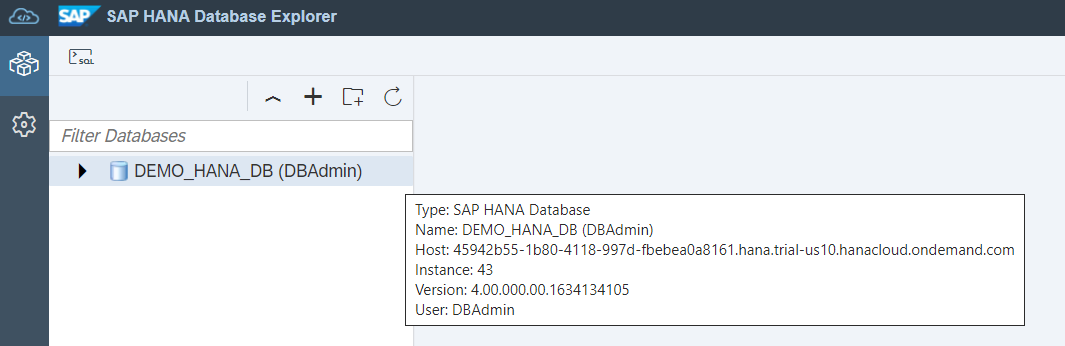
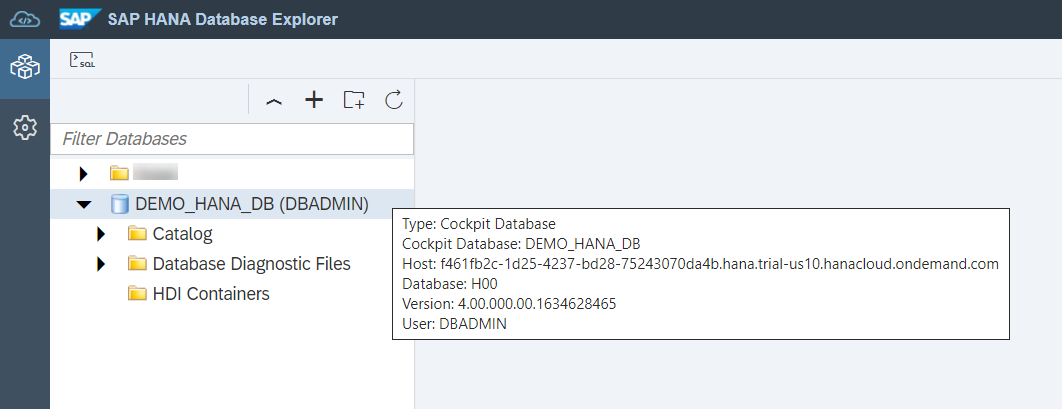
updated database explorer exercises

diff --git a/exercises/database_explorer/ex2/README.md b/exercises/database_explorer/ex2/README.md
@@ -3,20 +3,26 @@ In this exercise, we will use SAP HANA Database Explorer's SQL Console.
 
 For the rest of this workshop, we will be creating and working with a sample schema titled **Hotel**. This will represent a basic hotel administration system.
 
-1. First, we will create a new database connection with a different user. To do this, right-click over your existing database connection listed on the left panel. Select the "Add Database with Different User" option. Define the User as *hotelUser1* and the Password as *Password1*. 
+1. First, lets add new users we will use in the proceeding steps by running the following commands in SQL Console.
+   
+   ```SQL
+   CREATE USER USER1 PASSWORD Password1 no force_first_password_change;
+   CREATE USER USER2 PASSWORD Password2 no force_first_password_change;
+   ```
 
+2. We will create a new database connection with a different user. To do this, right-click over your existing database connection listed on the left panel. Select the "Add Database with Different User" option. Use the credentials User1 and Password1. 
 
-    Organize your database connections by creating database groups. Select the folder icon at the top of your databases panel, and name your new group *System Admins*, create a second new group named *Hotel*. Click and drag the DBAdmin connection into the System Admins group, and the hotelUser1 connection to the Hotel group.
+    Organize your database connections by creating database groups. Select the folder icon at the top of your databases panel, and name your new group *System Admins*, create a second new group named *Hotel*. Click and drag the DBAdmin connection into the System Admins group, and the User1 connection to the Hotel group.
 
       ![](images/NewDBUser.png)
 
-2. Next, right-click on your desired database and select **Open SQL Console**. 
+3. Next, right-click on your desired database connection and select **Open SQL Console**. An instance of SQL Console is associated with the selected database connection only.
 
     ![](images/SqlConsole.png)
 
     We can open SQL console in full-screen by double tapping on the tab name. We can rename a tab by right-clicking and selecting **Rename**.
 
-3. We will be creating a new schema by running the SQL command below. Type this into the SQL Console and click the green arrow at the top of your screen.
+4. We will be creating a new schema by running the SQL command below. Type this into the SQL Console and click the green arrow at the top of your screen.
 
     ```SQL
     CREATE SCHEMA HOTEL;
@@ -26,70 +32,75 @@ For the rest of this workshop, we will be creating and working with a sample sch
 
    ![](images/CreateSchema.png)
 
-    Create a second hotel user and assign a role with privileges to this user. Run the following commands in SQL console.
+    Create a role with privileges and assign to your user. Run the following commands in SQL console.
 
     ```SQL
     CREATE ROLE HOTEL_ADMIN;
+    CREATE ROLE HOTEL_READER;
+
     GRANT ALL PRIVILEGES ON SCHEMA HOTEL TO HOTEL_ADMIN;
-    GRANT HOTEL_ADMIN TO hotelUser1;
+    GRANT SELECT ON SCHEMA HOTEL TO HOTEL_READER;
+
+    GRANT HOTEL_ADMIN TO USER1;
+    GRANT HOTEL_READER TO USER2;
     ```
     Beside the Messages tab, is another tab labelled **History**, click this tab to view previously run queries from SQL console.
 
     ![](images/ViewHistory.png)
 
 
-4. Populate your hotel schema with some tables. Run the following code to create a series of tables for your hotel schema.
+5.  Populate your Hotel schema with some tables. Run the following code to create a series of tables for your Hotel schema.
 
     ```SQL
     CREATE COLUMN TABLE HOTEL.HOTEL(
-    hno INTEGER PRIMARY KEY,
-    name VARCHAR(50) NOT NULL,
-    address VARCHAR(40) NOT NULL,
-    city VARCHAR(30) NOT NULL,
-    state VARCHAR(2) NOT NULL,
-    zip VARCHAR(6),
-    location ST_Point(4326)
+        hno INTEGER PRIMARY KEY,
+        name VARCHAR(50) NOT NULL,
+        address VARCHAR(40) NOT NULL,
+        city VARCHAR(30) NOT NULL,
+        state VARCHAR(2) NOT NULL,
+        zip VARCHAR(6),
+        location ST_Point(4326)
     );
     CREATE COLUMN TABLE HOTEL.ROOM(
-    hno INTEGER,
-    type VARCHAR(6),
-    free NUMERIC(3),
-    price NUMERIC(6, 2),
-    PRIMARY KEY (hno, type),
-    FOREIGN KEY (hno) REFERENCES HOTEL.HOTEL
+        hno INTEGER,
+        type VARCHAR(6),
+        free NUMERIC(3),
+        price NUMERIC(6, 2),
+        PRIMARY KEY (hno, type),
+        FOREIGN KEY (hno) REFERENCES HOTEL.HOTEL
     );
     CREATE COLUMN TABLE HOTEL.CUSTOMER(
-    cno INTEGER PRIMARY KEY,
-    title VARCHAR(7),
-    firstname VARCHAR(20),
-    name VARCHAR(40) NOT NULL,
-    address VARCHAR(40) NOT NULL,
-    zip VARCHAR(6)
+        cno INTEGER PRIMARY KEY,
+        title VARCHAR(7),
+        firstname VARCHAR(20),
+        name VARCHAR(40) NOT NULL,
+        address VARCHAR(40) NOT NULL,
+        zip VARCHAR(6)
     );
     CREATE COLUMN TABLE HOTEL.RESERVATION(
-    resno INTEGER NOT NULL GENERATED BY DEFAULT AS IDENTITY,
-    rno INTEGER NOT NULL,
-    cno INTEGER,
-    hno INTEGER,
-    type VARCHAR(6),
-    arrival DATE NOT NULL,
-    departure DATE NOT NULL,
-    PRIMARY KEY (
-        "RESNO", "ARRIVAL"
-    ),
-    FOREIGN KEY(hno) REFERENCES HOTEL.HOTEL,
-    FOREIGN KEY(cno) REFERENCES HOTEL.CUSTOMER
+        resno INTEGER NOT NULL GENERATED BY DEFAULT AS IDENTITY,
+        rno INTEGER NOT NULL,
+        cno INTEGER,
+        hno INTEGER,
+        type VARCHAR(6),
+        arrival DATE NOT NULL,
+        departure DATE NOT NULL,
+        PRIMARY KEY (
+            "RESNO", "ARRIVAL"
+     ),
+        FOREIGN KEY(hno) REFERENCES HOTEL.HOTEL,
+        FOREIGN KEY(cno) REFERENCES HOTEL.CUSTOMER
     );
     CREATE COLUMN TABLE HOTEL.MAINTENANCE(
-    mno INTEGER PRIMARY KEY,
-    hno INTEGER,
-    description VARCHAR(100),
-    date_performed DATE,
-    performed_by VARCHAR(40)
+        mno INTEGER PRIMARY KEY,
+        hno INTEGER,
+        description VARCHAR(100),
+        date_performed DATE,
+        performed_by VARCHAR(40)
     );
     ```
 
-5. Add data into your tables by running the following SQL statements. If we anticipate this block of commands taking some time, we can choose to run it as a background activity while completing other tasks. To do this, click the small arrow beside the green arrow that runs commands. From the dropdown that appears, select **Run as a Background Activity**. 
+6.  Add data into your tables by running the following SQL statements. If we anticipate this block of commands taking some time, we can choose to run it as a background activity while completing other tasks. To do this, click the small arrow beside the green arrow that runs commands. From the dropdown that appears, select **Run as a Background Activity**. 
 
     ```SQL
     INSERT INTO HOTEL.HOTEL VALUES(10, 'Congress', '155 Beechwood St.', 'Seattle', 'WA', '98121', NEW ST_POINT('POINT(-122.347340 47.610546)', 4326));
@@ -185,7 +196,7 @@ For the rest of this workshop, we will be creating and working with a sample sch
     
     Similar to running a script as a background activity, the **Run on Multiple Databases** is an option available to run a single command on multiple databases.
 
-6. A list of keyboard shortcuts can be found by right-clicking within a SQL console window with some existing text within it. Keyboard shortcuts must be enabled by clicking the Settings icon on the left of the Database Explorer screen and navigating to Keyboard Shortcuts. Ensure Shortcuts to Use is set to Default, and click Save.
+7.  A list of keyboard shortcuts can be found by right-clicking within a SQL console window with some existing text within it. Keyboard shortcuts must be enabled by clicking the Settings icon on the left of the Database Explorer screen and navigating to Keyboard Shortcuts. Ensure Shortcuts to Use is set to Default, and click Save.
 
    ![](images/KeyboardShortcuts.png)
    
@@ -199,8 +210,11 @@ For the rest of this workshop, we will be creating and working with a sample sch
     ));
     ```
 
-   
-7. To understand your data better, let's view an analysis of the Reservations table. Using the navigator on the left, select Catalog, then Tables, and search for the Reservations table. 
+8.  Code completion is a tool available within SQL console. To use this feature type ``SE`` and then use Ctrl+Space on your keyboard to view a list of options. You can also type  ``SELECT * FROM HOTEL.RE`` and use Ctrl+Space on your keyboard to view a list of recommended tables.
+
+    ![](images/CodeCompletion.png)
+
+9.  To understand your data better, let's view an analysis of the Reservations table. Using the navigator on the left, select Catalog, then Tables, and search for the Reservations table. 
 
     ![](images/OpenData.png)
 
@@ -210,15 +224,14 @@ For the rest of this workshop, we will be creating and working with a sample sch
 
     ![](images/Analysis.png)
 
-8. Code completion is a tool available within SQL console. To use this feature type ``SE`` and then use Ctrl+Space on your keyboard to view a list of options. You can also type  ``SELECT * FROM HOTEL.RE`` and use Ctrl+Space on your keyboard to view a list of recommended tables.
 
-    ![](images/CodeCompletion.png)
 
-9.  A user can drag and drop database objects from the menu on the left to complete SQL queries. From the database menu, select Catalog, then Tables. Search "Hotel" in the Schema field below. Type ``SELECT * FROM`` and click and drag the HOTEL.CUSTOMER table from the menu.
+12. A user can drag and drop database objects from the menu on the left to complete SQL queries. From the database menu, select Catalog, then Tables. Search "Hotel" in the Schema field below. Type ``SELECT * FROM`` and click and drag the HOTEL.CUSTOMER table from the menu.
 
     ![](images/Drag_Drop.png)
 
-10. Find and Replace is available within SQL console. The keyboard shortcut for this tool is Ctrl+Alt+K. Highlight the text you wish to update and use the shortcut to update all instances of this text.
+13. Find and Replace is available within SQL console. The keyboard shortcut for this tool is Ctrl+Alt+K. Highlight the text you wish to update and use the shortcut to update all instances of this text.
 
+This concludes the exercise on the using SQL Console.
 
 Continue to - [Exercise 3 - Catalog Browser and Object Search](../ex3/README.md)

diff --git a/exercises/database_explorer/ex1/README.md b/exercises/database_explorer/ex1/README.md
@@ -1,33 +1,42 @@
 # Exercise 1 - Launch Database Explorer
 
-In this excercise, we will launch an instance of SAP HANA Database Explorer and walk through some of its core features.
+In this exercise, we will launch an instance of SAP HANA Database Explorer and walk through some of its core features.
 
 1. From the SAP BTP Cockpit, you can choose to open the SAP HANA Database Explorer by clicking the Actions dropdown on your instance, and selecting **Open in Database Explorer**.
 
-      ![](images/btpcockpit.png)
+    ![](images/BTPCockpit.png)
 
     Note: Trial instances are shut down overnight. Instances can be restarted by clicking the **Manage SAP HANA Cloud** button, and selecting **Start** on the dropdown menu for your instance.
 
-
     You may be prompted to enter database login credentials at this point. Enter the DBADMIN user credentials which were set during the SAP HANA instance creation process.
-
+    
+    Credentials for a cockpit database can be saved within BTP Cockpit, removing the need for users to log in each time they wish to access their database. For credentials to be saved, users must log in using BTP Cockpit and select the option to save their credentials. 
 
 2. Hover over your database in the databases menu. A summary should appear that identifies the type as a cockpit database.
 
-    ![](images/dbsummary.png)
+    ![](images/DBSummary.png)
     
      Right-click on the database name and select **Show Overview**. The release your database belongs to can be identified by looking at the last section of the Version field.
 
-    ![](images/showoverview.png)
+    ![](images/ShowOverview.png)
 
     *In this example, the database is from a release in July 2021, week 30 of the year.*
 
 3. At the top of the left pane, click the arrow next to the database icon, to expand the object hierarchy for the database. You will see that it holds catalog objects and database diagnostic files (trace files, or log files).
 
-    Expand **Catalog** then **Schemas**, this will present a list of the schemas available for this database. Directly above the list is a search bar, you can search for the **System** schema, and right-click and select **Open** to view details.
+    Expand **Catalog** then **Views**, this will present a list of the schemas available for this database. Directly above the list are search bars for schema and objects, you can search for the **Sys** schema and views that begin with **m_data**. Once you right-click and select **Open** to view these tables. Table that begin with **m_data** contain a number of monitoring views for your database.
 
-    ![](images/schemamenu.png)
+    ![](images/SchemaMenu.png)
 
+4. Users may benefit from identifying the difference between production and non-production databases. To do this run the command below, replacing the **DATABASE** field with the name of your cockpit database.
+
+    ```SQL
+    SELECT * FROM M_INIFILE_CONTENTS WHERE KEY = 'usage';
+    ALTER SYSTEM ALTER CONFIGURATION ('global.ini', 'DATABASE') SET ('system_information', 'usage') = 'production' WITH RECONFIGURE;
+    ```
+
+
+This concludes the exercise on launching database explorer.
     
 Continue to - [Exercise 2 - Using SQL Console](../ex2/README.md)
 

diff --git a/exercises/database_explorer/ex3/README.md b/exercises/database_explorer/ex3/README.md
@@ -44,6 +44,6 @@ In this exercise, we will explore some of the functionality that the catalog bro
 
     For additional details on SQLScript analysis and debugging, see [Troubleshoot SQL with SAP HANA Database Explorer](https://developers.sap.com/tutorials/hana-dbx-troubleshooting.html).
 
-This concludes the exercices on the catalog browser and object search.
+This concludes the exercises on the catalog browser and object search.
 
 Continue to - [Exercise 4 - Statement Library ](../ex4/README.md)

diff --git a/exercises/database_explorer/ex4/README.md b/exercises/database_explorer/ex4/README.md
@@ -1,6 +1,6 @@
 # Exercise 4 - Statement Library
 
-In this exercise, we will explore the statement library and demonsrate how to import and run statements from the SQL Statement Collection for SAP HANA. 
+In this exercise, we will explore the statement library and demonstrate how to import and run statements from the SQL Statement Collection for SAP HANA. 
 
 1. The statement library can be accessed by the context menu on the database.
 
